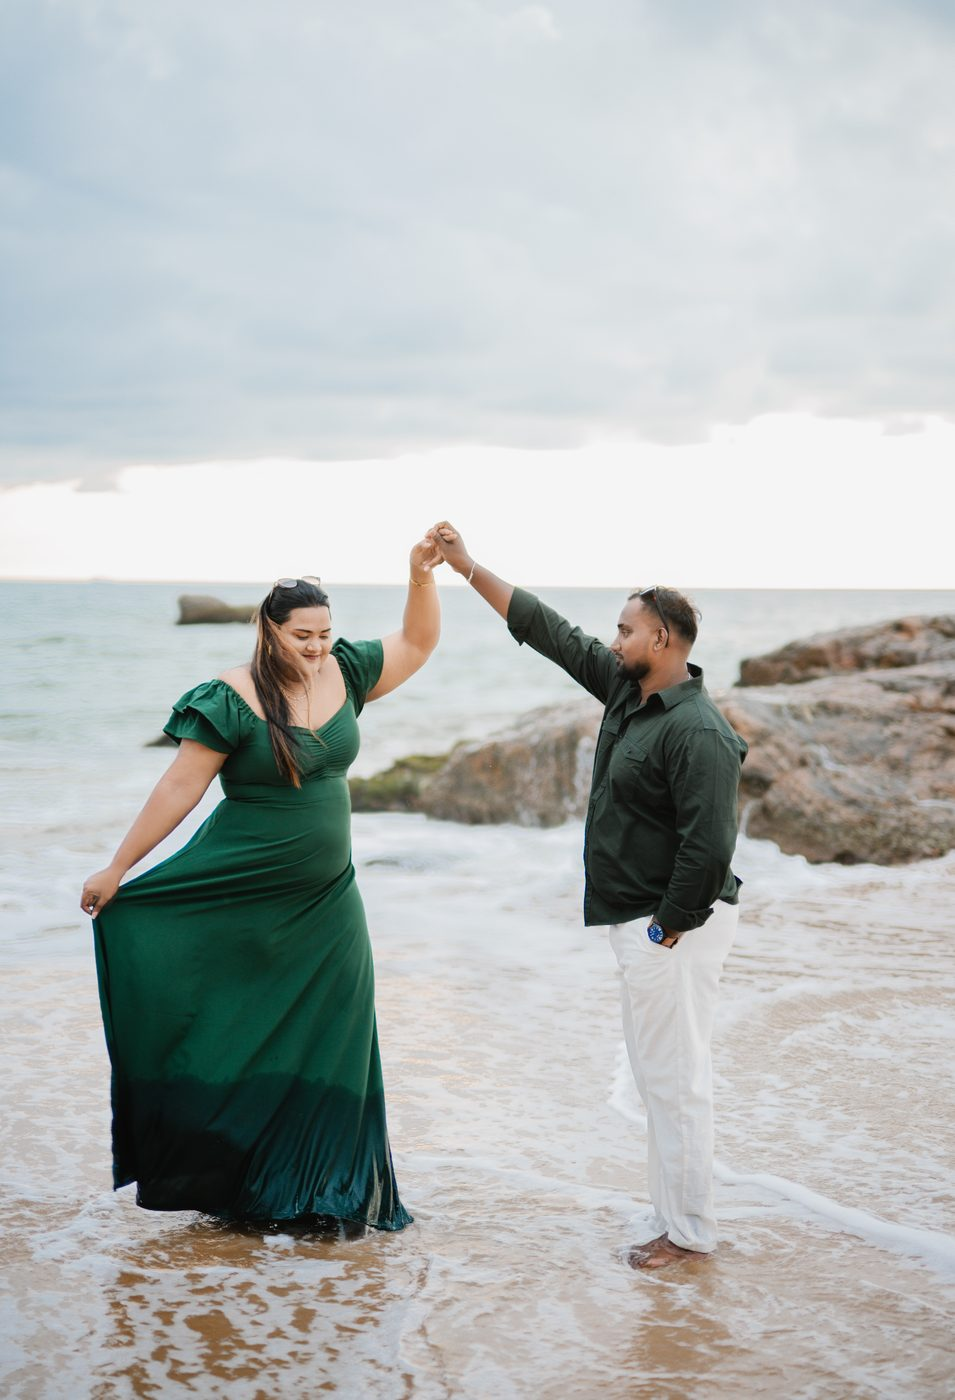
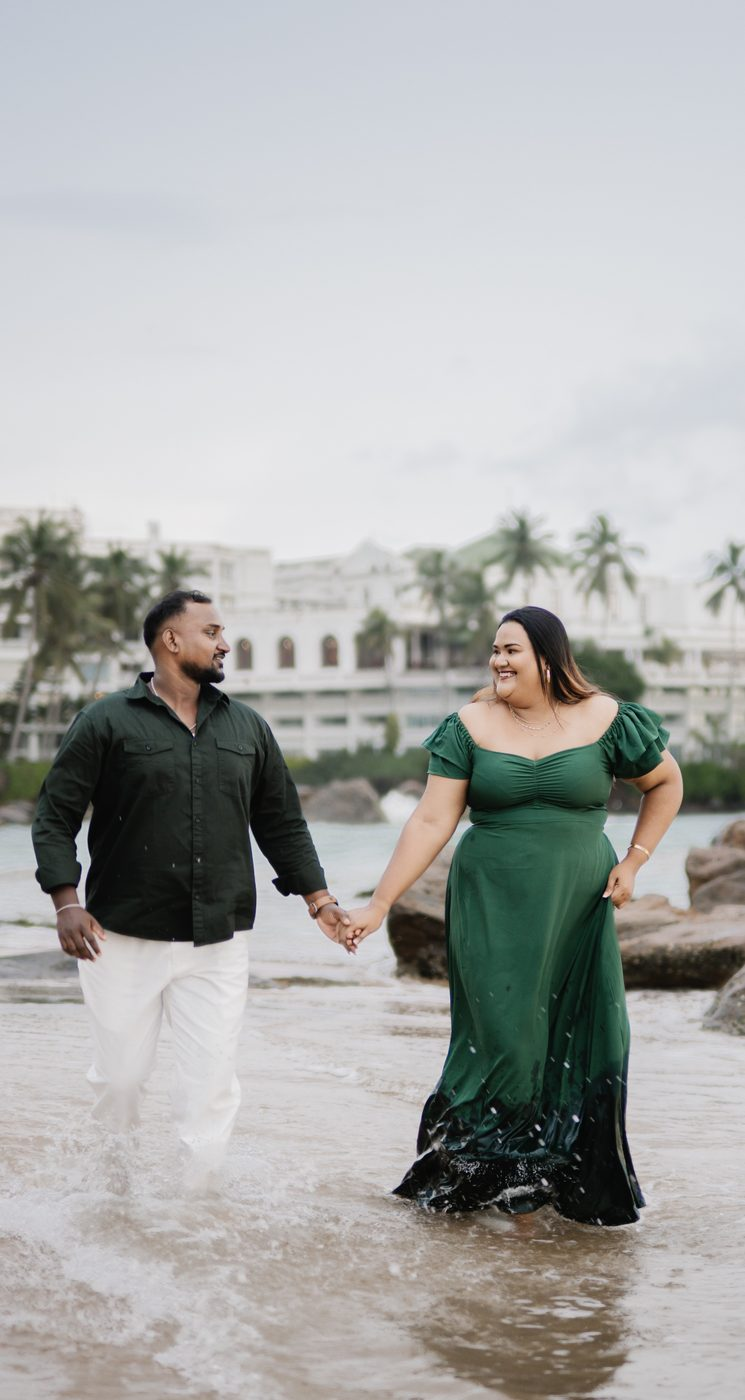
Update hero photo and text, arch card watermark, Google Sheets RSVP/wishes
- Hero: DSC_7909 with extended sky, larger text that scales down on short phones
- Arch invitation card: more visible couple watermark, darker lettering
- New Apps Script (separate RSVP and Wishes tabs with headers), URL hard-coded

diff --git a/components/sections/HeroSection.tsx b/components/sections/HeroSection.tsx
@@ -12,25 +12,28 @@ export default function HeroSection() {
       ref={ref}
       className="relative min-h-[100svh] w-full overflow-hidden"
     >
-      <motion.div
-        initial={{ scale: 1.1 }}
-        animate={inView ? { scale: 1 } : {}}
-        transition={{ duration: 15, ease: "easeOut" }}
-        className="absolute inset-0 bg-cover bg-[52%_70%] bg-no-repeat"
-        style={{ backgroundImage: 'url(/photos/hero.jpg)' }}
-      />
+      {/* Full-bleed background photo (couple-4 / DSC_7909, high-res copy) */}
+      <div className="absolute inset-0 overflow-hidden">
+        <motion.div
+          initial={{ scale: 1.1 }}
+          animate={inView ? { scale: 1 } : {}}
+          transition={{ duration: 15, ease: "easeOut" }}
+          className="absolute inset-0 bg-cover bg-[44%_bottom] bg-no-repeat"
+          style={{ backgroundImage: 'url(/photos/hero.jpg)' }}
+        />
+        {/* ivory wash over the sky for the dark lettering, clear over the couple */}
+        <div className="absolute inset-0 bg-[linear-gradient(180deg,rgba(251,248,241,0.85)_0%,rgba(251,248,241,0.55)_30%,rgba(251,248,241,0)_50%)]" />
+        <div className="absolute inset-x-0 bottom-0 h-1/4 bg-gradient-to-t from-[rgba(43,31,20,0.35)] to-transparent" />
+      </div>
 
-      {/* Ivory wash over the sky for the dark lettering, clear over the couple */}
-      <div className="absolute inset-0 bg-[linear-gradient(180deg,rgba(251,248,241,0.75)_0%,rgba(251,248,241,0.45)_40%,rgba(251,248,241,0)_62%,rgba(43,31,20,0.25)_100%)]" />
-
-      <div className="relative z-20 mx-auto flex min-h-[100svh] w-full max-w-6xl flex-col items-center px-4 pb-24 pt-16 text-center sm:px-8 sm:pt-20">
+      <div className="relative z-20 mx-auto flex w-full max-w-6xl flex-col items-center px-4 pt-16 text-center sm:px-8 sm:pt-20 [@media(max-height:700px)]:pt-8 [@media(max-height:600px)]:pt-5!">
         <motion.div
           initial={{ opacity: 0, y: 20 }}
           animate={inView ? { opacity: 1, y: 0 } : {}}
           transition={{ duration: 1 }}
         >
-          <Monogram className="mx-auto w-28 sm:w-36" />
-          <p className="mt-3 font-display text-[11px] sm:text-sm font-semibold tracking-[0.25em] text-[#8a6a2c]">
+          <Monogram className="mx-auto w-28 sm:w-36 [@media(max-height:700px)]:w-20 [@media(max-height:600px)]:w-14!" />
+          <p className="mt-3 font-display text-[11px] sm:text-sm [@media(max-height:700px)]:text-[10px] font-semibold tracking-[0.25em] text-[#8a6a2c]">
             WE&apos;VE DECIDED ON FOREVER
           </p>
         </motion.div>
@@ -39,7 +42,7 @@ export default function HeroSection() {
           initial={{ opacity: 0, y: 30 }}
           animate={inView ? { opacity: 1, y: 0 } : {}}
           transition={{ duration: 1.2, delay: 0.15 }}
-          className="mt-6 font-names text-6xl sm:text-8xl md:text-9xl leading-[1.15] text-[#4a3626] drop-shadow-[0_1px_8px_rgba(251,248,241,0.8)]"
+          className="mt-6 font-names text-6xl sm:text-8xl md:text-9xl leading-[1.15] [@media(max-height:700px)]:mt-3 [@media(max-height:700px)]:text-5xl [@media(max-height:600px)]:mt-1! [@media(max-height:600px)]:text-[2.6rem]! text-[#4a3626]"
         >
           Sanduni <span className="font-script mx-2 text-[0.8em] text-[#b08a3e]">&amp;</span> Waruna
         </motion.h1>
@@ -48,14 +51,14 @@ export default function HeroSection() {
           initial={{ opacity: 0, y: 20 }}
           animate={inView ? { opacity: 1, y: 0 } : {}}
           transition={{ duration: 1, delay: 0.35 }}
-          className="mt-6 flex items-center justify-center gap-3 sm:gap-4 font-display text-[#4a3626]"
+          className="mt-6 [@media(max-height:700px)]:mt-3 [@media(max-height:600px)]:mt-1! flex items-center justify-center gap-3 sm:gap-4 font-display text-[#4a3626]"
         >
           <div className="flex flex-col items-center">
             <span className="h-px w-20 sm:w-28 bg-[#7a5a3c]/60" />
             <span className="py-1.5 text-xs sm:text-base tracking-[0.15em]">DECEMBER</span>
             <span className="h-px w-20 sm:w-28 bg-[#7a5a3c]/60" />
           </div>
-          <span className="text-4xl sm:text-5xl">12</span>
+          <span className="text-4xl sm:text-5xl [@media(max-height:700px)]:text-3xl [@media(max-height:600px)]:text-2xl!">12</span>
           <div className="flex flex-col items-center">
             <span className="h-px w-16 sm:w-24 bg-[#7a5a3c]/60" />
             <span className="py-1.5 text-xs sm:text-base tracking-[0.15em]">2026</span>
@@ -67,20 +70,20 @@ export default function HeroSection() {
           initial={{ opacity: 0 }}
           animate={inView ? { opacity: 1 } : {}}
           transition={{ duration: 1, delay: 0.5 }}
-          className="mt-4 font-display text-[10px] sm:text-xs tracking-[0.35em] text-[#5a4330]"
+          className="mt-4 [@media(max-height:600px)]:mt-1! font-display text-[10px] [@media(max-height:600px)]:text-[9px]! sm:text-xs tracking-[0.35em] text-[#5a4330]"
         >
           SATURDAY · KALUTHARA
         </motion.p>
-
-        <motion.div
-          animate={{ y: [0, 10, 0] }}
-          transition={{ duration: 2, repeat: Infinity }}
-          className="absolute bottom-8 left-1/2 -translate-x-1/2 flex flex-col items-center gap-2 opacity-70"
-        >
-          <span className="font-display text-[9px] tracking-[0.4em] text-white">SCROLL</span>
-          <div className="h-10 w-px bg-gradient-to-b from-white to-transparent" />
-        </motion.div>
       </div>
+
+      <motion.div
+        animate={{ y: [0, 10, 0] }}
+        transition={{ duration: 2, repeat: Infinity }}
+        className="absolute bottom-8 left-1/2 z-20 -translate-x-1/2 flex flex-col items-center gap-2 opacity-80"
+      >
+        <span className="font-display text-[9px] tracking-[0.4em] text-white">SCROLL</span>
+        <div className="h-10 w-px bg-gradient-to-b from-white to-transparent" />
+      </motion.div>
     </section>
   );
 }

diff --git a/components/sections/ParentsSection.tsx b/components/sections/ParentsSection.tsx
@@ -86,16 +86,17 @@ function ParentsSectionContent() {
               initial={{ scale: 1.12 }}
               animate={inView ? { scale: 1 } : {}}
               transition={{ duration: 6, ease: 'easeOut' }}
-              className="absolute inset-0 h-full w-full object-cover object-[center_75%] opacity-[0.28] [filter:sepia(0.55)_saturate(0.7)_contrast(0.9)] mix-blend-multiply"
+              style={{ height: '100%' }}
+              className="absolute inset-0 h-full w-full object-cover object-[center_75%] opacity-[0.75] [filter:sepia(0.25)_saturate(0.85)]"
             />
             {/* ivory veil keeps the lettering crisp while the couple shows through */}
-            <div className="absolute inset-0 bg-[linear-gradient(180deg,rgba(251,248,241,0.92)_0%,rgba(251,248,241,0.72)_45%,rgba(251,248,241,0.6)_70%,rgba(251,248,241,0.9)_100%)]" />
+            <div className="absolute inset-0 bg-[linear-gradient(180deg,rgba(251,248,241,0.88)_0%,rgba(251,248,241,0.6)_40%,rgba(251,248,241,0.5)_70%,rgba(251,248,241,0.8)_100%)]" />
 
             {/* arched gold frames */}
-            <div className="pointer-events-none absolute inset-3 rounded-t-[999px] rounded-b-[3px] border border-[#b08a3e]/60" />
+            <div className="pointer-events-none absolute inset-3 rounded-t-[999px] rounded-b-[3px] border border-[#b08a3e]/80" />
             <div className="pointer-events-none absolute inset-[19px] rounded-t-[999px] rounded-b-[2px] border border-[#b08a3e]/25" />
 
-            <div className="relative z-10 flex flex-col items-center px-8 pb-14 pt-24 sm:px-12 sm:pt-28 text-center text-[#7a5a3c]">
+            <div className="relative z-10 flex flex-col items-center px-8 pb-14 pt-24 sm:px-12 sm:pt-28 text-center text-[#3f2c1e] [text-shadow:0_0_8px_rgba(251,248,241,0.95)]">
               {/* sprig ornament under the arch */}
               <motion.svg
                 viewBox="0 0 120 40"
@@ -117,21 +118,21 @@ function ParentsSectionContent() {
               </motion.svg>
 
               {[
-                <div key="parents" className="font-display text-[13px] sm:text-[15px] leading-loose tracking-[0.08em]">
+                <div key="parents" className="font-display text-[15px] sm:text-[17px] font-semibold leading-loose tracking-[0.08em]">
                   <p className="text-inherit">MR. &amp; MRS. GEETHANJANA</p>
-                  <p className="font-script normal-case text-2xl tracking-normal text-[#b08a3e]">together with</p>
+                  <p className="font-script normal-case text-[1.7rem] font-semibold tracking-normal text-[#8a6a2c]">together with</p>
                   <p className="text-inherit">MR. &amp; MRS. KIRIELLA</p>
                 </div>,
-                <p key="request" className="mt-6 font-display text-[11px] sm:text-[13px] tracking-[0.18em] text-inherit">
+                <p key="request" className="mt-6 font-display text-[13px] sm:text-[15px] font-semibold tracking-[0.14em] text-inherit">
                   REQUEST THE PLEASURE OF YOUR PRESENCE
                 </p>,
                 <div key="divider" className="my-6 w-full"><Divider /></div>,
-                <p key="celebrating" className="font-display text-[11px] sm:text-[13px] tracking-[0.18em] text-inherit">
+                <p key="celebrating" className="font-display text-[13px] sm:text-[15px] font-semibold tracking-[0.14em] text-inherit">
                   IN CELEBRATING THE MARRIAGE OF THEIR CHILDREN
                 </p>,
-                <h2 key="names" className="mt-5 font-names text-6xl sm:text-7xl leading-[1.1] text-[#6b4c32] drop-shadow-[0_1px_0_rgba(255,255,255,0.8)]">
+                <h2 key="names" className="mt-5 font-names text-6xl sm:text-7xl leading-[1.1] text-[#3f2c1e] drop-shadow-[0_0_10px_rgba(251,248,241,0.95)]">
                   Sanduni
-                  <span className="font-script block text-4xl sm:text-5xl text-gold-foil">&amp;</span>
+                  <span className="font-script block text-4xl sm:text-5xl font-semibold text-[#9a7430]">&amp;</span>
                   Waruna
                 </h2>,
               ].map((el, i) => (

diff --git a/lib/googleSheets.ts b/lib/googleSheets.ts
@@ -7,14 +7,11 @@ interface SubmitPayload {
   message?: string;
 }
 
+const GOOGLE_SCRIPT_URL =
+  'https://script.google.com/macros/s/AKfycbwAZxSBwILcHFlTN_ojL7gH4nWCRdHamcmfwoYfm1ryYayiYzxnd9oSBHNMpGjYrAEbxw/exec';
+
 export async function submitToGoogleSheets(payload: SubmitPayload): Promise<void> {
-  const scriptUrl = process.env.NEXT_PUBLIC_GOOGLE_SCRIPT_URL;
-
-  if (!scriptUrl) {
-    throw new Error('Missing NEXT_PUBLIC_GOOGLE_SCRIPT_URL');
-  }
-
-  await fetch(scriptUrl, {
+  await fetch(GOOGLE_SCRIPT_URL, {
     method: 'POST',
     mode: 'no-cors',
     headers: {
